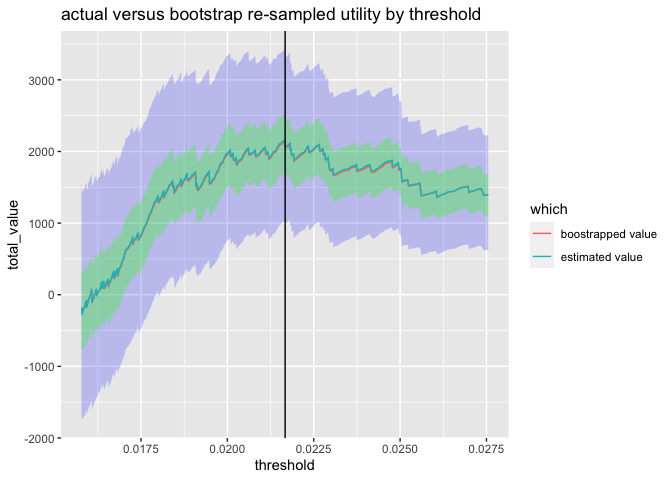
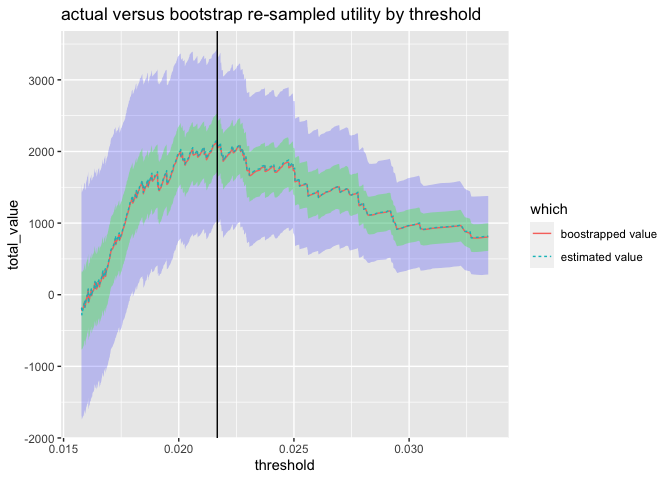
wider plotting range

diff --git a/extras/utility_modeling/Utility_Sampling_Distribution.md b/extras/utility_modeling/Utility_Sampling_Distribution.md
@@ -94,9 +94,10 @@ WVPlots::ROCPlot(d, xvar = 'predicted_probability', truthVar = 'converted', trut
 ![](Utility_Sampling_Distribution_files/figure-gfm/unnamed-chunk-1-1.png)<!-- -->
 
 ``` r
+# get a plot region
 threshold_list <- values$threshold[(!is.na(values$threshold)) & (values$total_value >= -200)]
 diff_left <- max(chosen_threshold - threshold_list)
-threshold_list <- threshold_list[abs(threshold_list - chosen_threshold) <= diff_left]
+threshold_list <- threshold_list[abs(threshold_list - chosen_threshold) <= 2*diff_left]
 
 f <- function(d, indices, ...) {
   vi <- model_utility(d[indices, ], 'predicted_probability', 'converted')
@@ -145,6 +146,7 @@ value_thin <- value_range %.>%
   extend(., which = 'estimated value')
 
 plot_thin <- rbind(boot_thin, value_thin)
+plot_thin <- plot_thin[complete.cases(plot_thin), , drop = FALSE]
 
 ggplot() +
   geom_ribbon(
@@ -159,11 +161,9 @@ ggplot() +
     fill = 'green') +
   geom_line(
     data = plot_thin,
-    mapping = aes(x = threshold, y = total_value, color = which)) + 
+    mapping = aes(x = threshold, y = total_value, color = which, linetype = which)) + 
   geom_vline(xintercept = chosen_threshold) +
   ggtitle("actual versus bootstrap re-sampled utility by threshold")
 ```
-
-    ## Warning: Removed 1 row(s) containing missing values (geom_path).
 
 ![](Utility_Sampling_Distribution_files/figure-gfm/unnamed-chunk-1-2.png)<!-- -->
